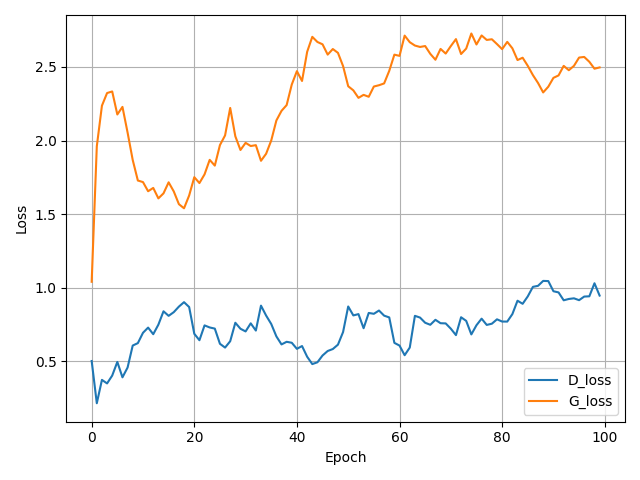
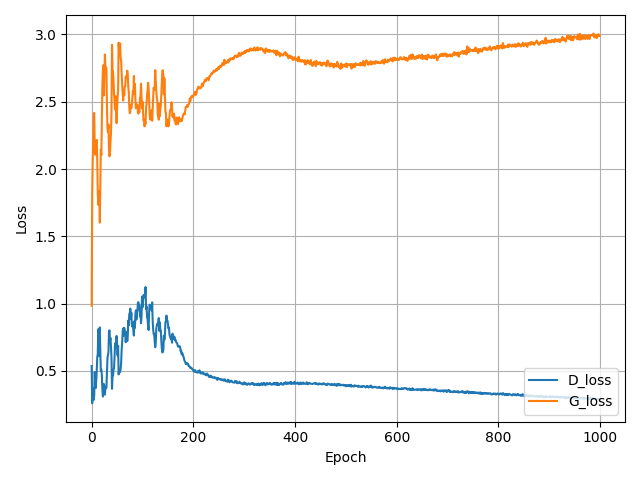
1000 iterations

diff --git a/DL_CV/CW2/CW2_Handout_Template_code/GAN/gan_tensorflow.py b/DL_CV/CW2/CW2_Handout_Template_code/GAN/gan_tensorflow.py
@@ -97,7 +97,7 @@ def show_train_hist(hist, show = False, save = False, path = 'Train_hist.png'):
 # training parameters
 batch_size = 100
 lr = 0.0002
-train_epoch = 100
+train_epoch = 1000
 
 # load MNIST
 mnist = input_data.read_data_sets("MNIST_data/", one_hot=True)
